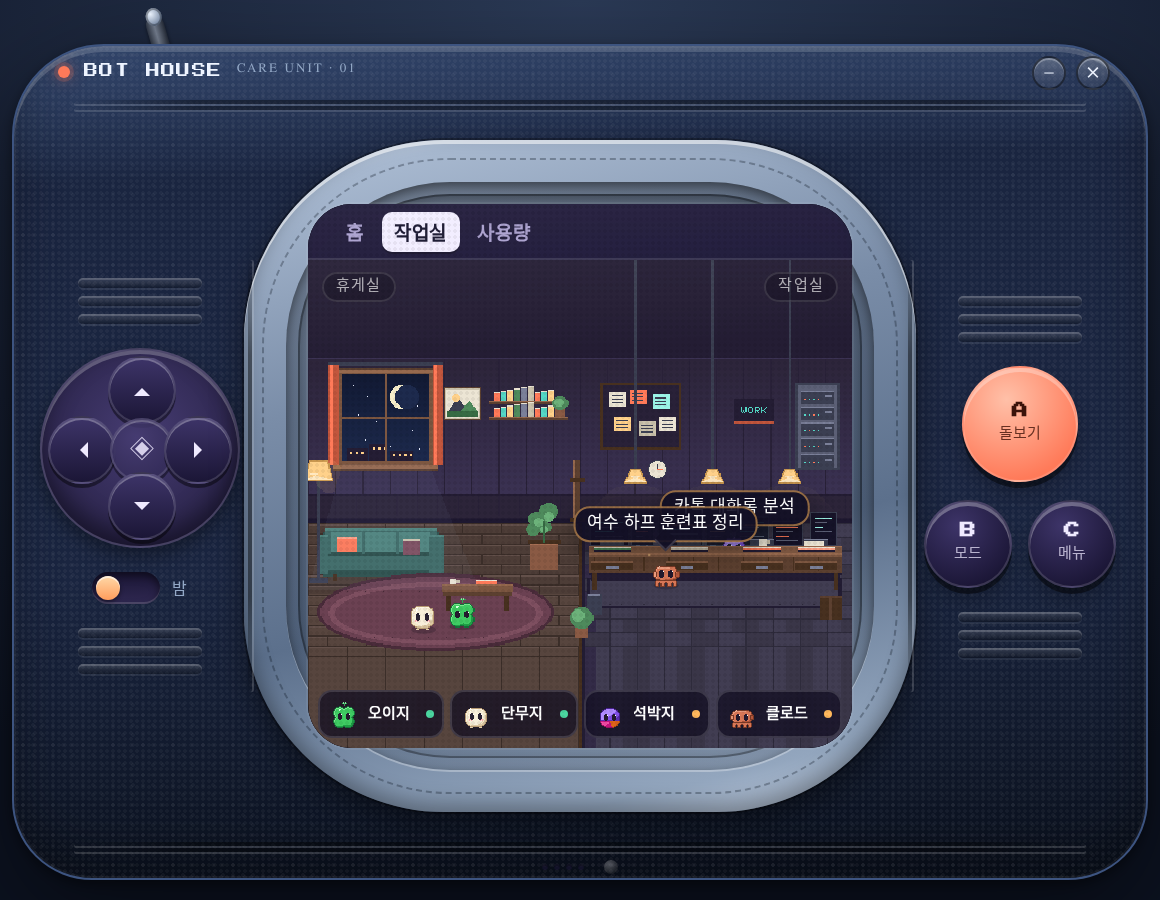
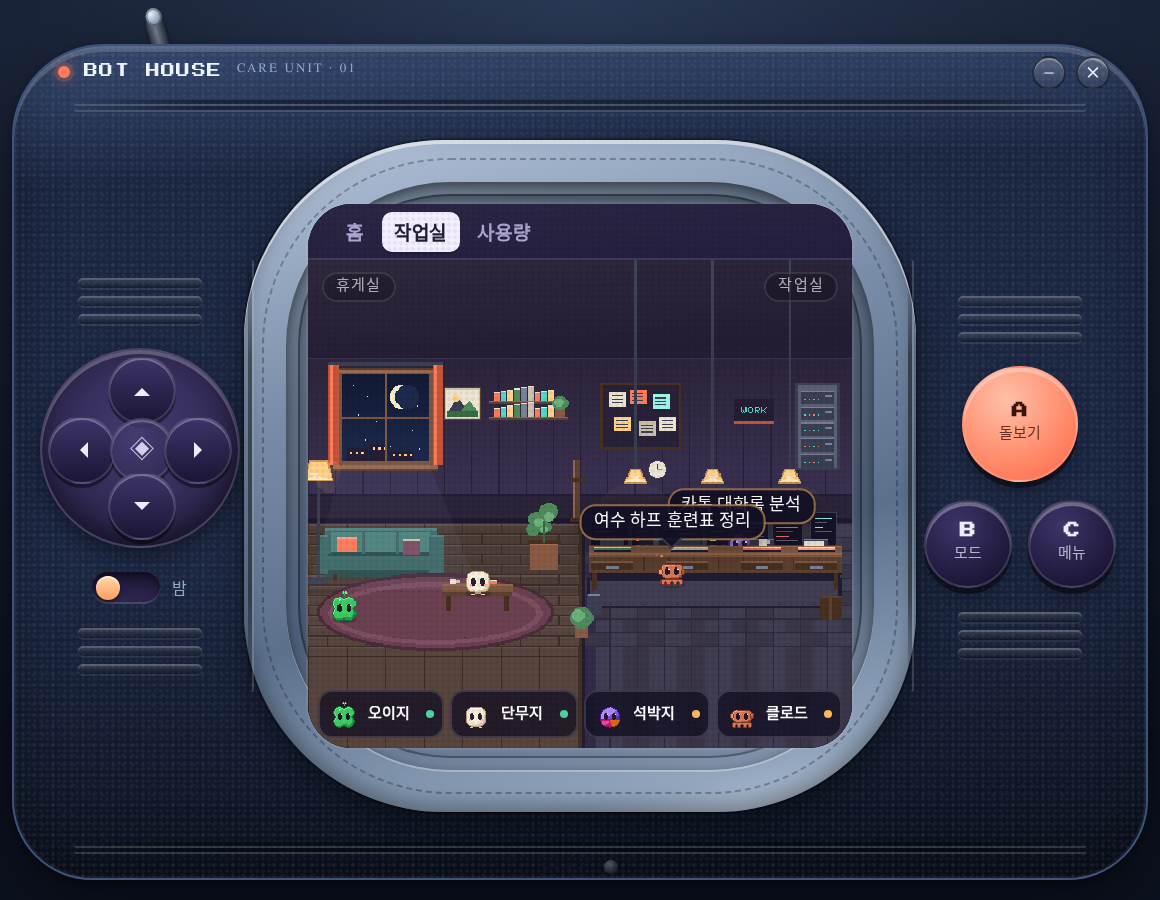
정리: tamagotchi.js groundY 중복 정의 제거

Changed region(s): [[0.4966, 0.5289, 0.7138, 0.6533], [0.3414, 0.6222, 0.4345, 0.7156], [0.2793, 0.6533, 0.3103, 0.7156]]

diff --git a/renderer/tamagotchi.js b/renderer/tamagotchi.js
@@ -453,10 +453,7 @@
   }
 
   function groundY() {
-    return Math.round(state.view.lh - clamp(state.view.lh * 0.19, 20, 34));
-  }
-
-  function groundY() {
+    // 아래쪽 미니 게이지에 발이 가리지 않게 기존보다 살짝 위에 세운다
     return Math.round(state.view.lh - clamp(state.view.lh * 0.2, 20, 38));
   }
 
